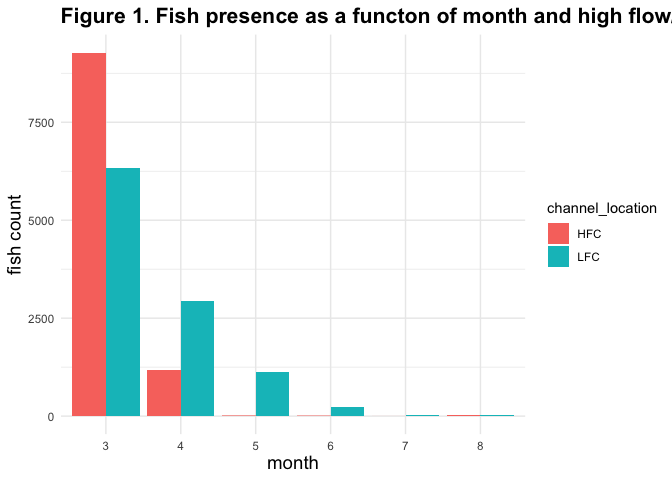
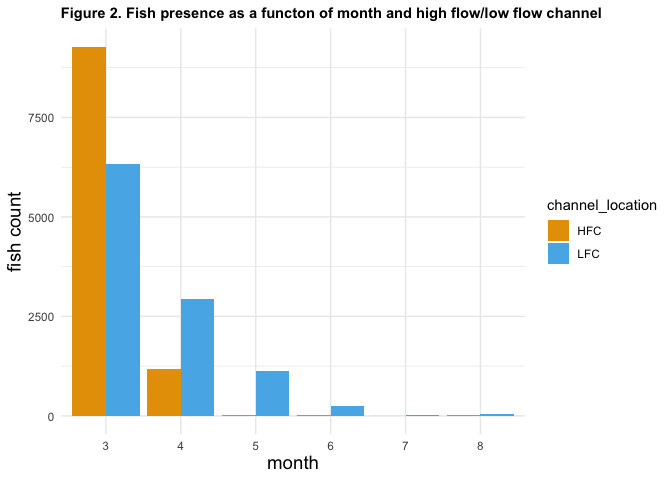
adding text and sections, making plots prettier

diff --git a/feather_river_hsi_hurdle_model.md b/feather_river_hsi_hurdle_model.md
@@ -1,21 +1,89 @@
-Mini Snorkel Feather HSC Using Hurdle Model
+Mini Snorkel Feather Presence/Absence Model
 ================
 Maddee Rubenson
-2024-07-02
+2024-07-03
 
 - [Objective](#objective)
-- [Data Exploration](#data-exploration)
-  - [Outliers](#outliers)
-- [Hurdle Models and Interpretation](#hurdle-models-and-interpretation)
-  - [Binary Cover Values](#binary-cover-values)
-    - [Results](#results)
-  - [Using Absolute Values](#using-absolute-values)
-    - [Results](#results-1)
+- [Methodology](#methodology)
+  - [Hurdle Models and
+    Interpretation](#hurdle-models-and-interpretation)
+- [Build Models](#build-models)
+  - [Read in data](#read-in-data)
+  - [Review Data](#review-data)
+  - [High Flow vs. Low Flow Channel](#high-flow-vs-low-flow-channel)
+- [Model 1 - Binary Cover Values](#model-1---binary-cover-values)
+  - [Model 1 Results](#model-1-results)
+- [Model 2 - Using Absolute Values](#model-2---using-absolute-values)
+  - [Model 2 Results](#model-2-results)
+- [Discussion](#discussion)
+  - [Interpretation of Model 1](#interpretation-of-model-1)
+  - [Interpretation of Model 2](#interpretation-of-model-2)
+  - [Suggestions](#suggestions)
+  - [Limitations](#limitations)
 
 ## Objective
 
-Using the mini snorkel data for the Feather River, produce an HSC that
-uses cover, substrate, depth and velocity.
+Develop a model that reflects the significance of cover, substrate,
+depth, and velocity on fish presence and absence.
+
+## Methodology
+
+Model was developed using [Feather River Mini Snorkel
+Data](https://github.com/FlowWest/feather-mini-snorkel). The data is
+structured with a numeric fish count variable that can be converted to a
+binary presence/absence. Logistic regression models were tested using
+the presence/absence as the response and cover, substrate, depth and
+velocity as the explanatory variables. However, due to the skewness of
+absence values, none of the developed models were well fit to the data.
+Based on a Gard 2024 paper (in-review), we decided to explore the use of
+hurdle models. Hurdle models excel with data types that are heavily
+skewed towards absence.
+
+### Hurdle Models and Interpretation
+
+A hurdle model was used in Gard 2024 (in-review) to test for the effects
+of cover and habitat type on the total abundance of Chinook salmon at
+both site and cell level. Here we use the hurdle model to help
+understand the influence of velocity, depth, and cover on fish count and
+presence/absence.
+
+**Hurdle Models**
+
+Hurdle models are used when count data has an excess of zeros. These
+models can be understood as a mixture of two subset of populations. In
+one subset, we have a usual count model that may or may not generate
+zero, and the other subset only produce zero count.
+
+A hurdle model models excess zeroes separately from the rest of the
+data. The zero counts are modeled as a binary response variable and the
+positive counts are modeled using poisson distribution.
+
+*Interpreting a Hurdle Model*
+
+The binary part of the model helps identify factors that influence the
+presence/absence of fish. The coefficients of the zero part of the
+hurdle model represent the odds ratio of observing at least one fish.
+
+The count part of the model estimate the effects of predictor variables
+on the count outcome, excluding all zero counts. Coefficients of counts
+represent rate ratios of one or more fish observed.
+
+The Incidence Result Ratio (IRR) in the count part of the model (count
+\> 0) represent the multiplicative effect of a one-unit change in a
+predictor variable on the expected count of non-zero observations,
+assuming all other variables are held constant. For example, if the IRR
+for a predictor is 1.2, it means that a one-unit increase in that
+predictor is associated with a 20% increase in the expected count of
+non-zero observations, assuming all other variables remain constant. For
+the binary part of the model - if the coefficient for a predictor in the
+binary part of the hurdle model is 0.5, it means that a one-unit
+increase in the predictor is associated with a 50% increase in the odds
+of having a zero count versus a positive count, assuming all other
+variables are held constant.
+
+## Build Models
+
+### Read in data
 
     ## Rows: 5,029
     ## Columns: 43
@@ -63,14 +131,23 @@ uses cover, substrate, depth and velocity.
     ## $ longitude                                   <dbl> -121.5588, -121.5588, -121…
     ## $ fish_presence                               <fct> 1, 1, 1, 0, 0, 0, 1, 0, 0,…
 
-## Data Exploration
+### Review Data
 
-### Outliers
+#### Outliers
 
-- There are two outliers, one in the high flow and one in the low flow
-  channel
+There are two `count` outliers, one in the high flow and one in the low
+flow channel (figure 1), however their removal did not impact the model
+results so they were kept in the dataset.
 
-![](feather_river_hsi_hurdle_model_files/figure-gfm/unnamed-chunk-2-1.png)<!-- -->![](feather_river_hsi_hurdle_model_files/figure-gfm/unnamed-chunk-2-2.png)<!-- -->
+![](feather_river_hsi_hurdle_model_files/figure-gfm/unnamed-chunk-2-1.png)<!-- -->
+
+### High Flow vs. Low Flow Channel
+
+Table 1 and figure 2 explore whether fish presence was impacted by the
+high or low flow channels. Overall, the cumulative number of fish are
+similar across the high and low flow channels (table 1) however there
+are more fish present in the high flow channel for less time and the
+fish remain in the low flow channel for much longer (figure 2).
 
 | channel_location |     n |
 |:-----------------|------:|
@@ -81,52 +158,14 @@ Table 1. Total count of fish between high flow and low flow channels
 
 ![](feather_river_hsi_hurdle_model_files/figure-gfm/unnamed-chunk-3-1.png)<!-- -->
 
-# Hurdle Models and Interpretation
+## Model 1 - Binary Cover Values
 
-A hurdle model was used in Gard 2024 to test for the effects of cover
-and habitat type on the total abundance of Chinook salmon at both site
-and cell level. Here we use the hurdle model to help understand the
-influence of velocity, depth, and cover on fish count and
-presence/absence.
+**Notes**
 
-**Hurdle Models**
+For this hurdle model, all substrate and cover variables
+presence/absence based on a 20% threshold
 
-Hurdle models are used when count data has an excess of zeros. These
-models can be understood as a mixture of two subset of populations. In
-one subset, we have a usual count model that may or may not generate
-zero, and the other subset only produce zero count.
-
-A hurdle model models excess zeroes separately from the rest of the
-data. The zero counts are modeled as a binary response variable and the
-positive counts are modeled using poisson distribution.
-
-*Interpreting a Hurdle Model*
-
-The binary part of the model helps identify factors that influence the
-presence/absence of fish. The coefficients of the zero part of the
-hurdle model represent the odds ratio of observing at least one fish.
-
-The count part of the model estimate the effects of predictor variables
-on the count outcome, excluding all zero counts. Coefficients of counts
-represent rate ratios of one or more fish observed.
-
-The Incidence Result Ratio (IRR) in the count part of the model (count
-\> 0) represent the multiplicative effect of a one-unit change in a
-predictor variable on the expected count of non-zero observations,
-assuming all other variables are held constant. For example, if the IRR
-for a predictor is 1.2, it means that a one-unit increase in that
-predictor is associated with a 20% increase in the expected count of
-non-zero observations, assuming all other variables remain constant. For
-the binary part of the model - if the coefficient for a predictor in the
-binary part of the hurdle model is 0.5, it means that a one-unit
-increase in the predictor is associated with a 50% increase in the odds
-of having a zero count versus a positive count, assuming all other
-variables are held constant.
-
-## Binary Cover Values
-
-**Notes** For this hurdle model, chose to make all substrate and cover
-variables presence/absence based on a 20% threshold
+TODO: add no_cover into variables
 
 **Predictors**
 
@@ -206,6 +245,8 @@ variables presence/absence based on a 20% threshold
     ## - cover_more_than_half_meter_overhead  2 5342.5
     ## - channel_location                     2 5421.7
 
+### Model 1 Results
+
     ## 
     ## Call:
     ## pscl::hurdle(formula = count ~ small_woody_cover_inchannel + depth + 
@@ -263,13 +304,14 @@ variables presence/absence based on a 20% threshold
     ## Number of iterations in BFGS optimization: 32 
     ## Log-likelihood: -2632 on 23 Df
 
-### Results
+    ## Scale for colour is already present.
+    ## Adding another scale for colour, which will replace the existing scale.
 
 ![](feather_river_hsi_hurdle_model_files/figure-gfm/unnamed-chunk-5-1.png)<!-- -->
 
-## Using Absolute Values
+## Model 2 - Using Absolute Values
 
-This hurdle model uses substrate and cover percent values.
+This hurdle model uses substrate and cover absolute percent values.
 
 **Predictors**
 
@@ -394,6 +436,8 @@ This hurdle model uses substrate and cover percent values.
     ## - percent_small_woody_cover_inchannel          2 5035.7
     ## - channel_location                             2 5105.8
 
+### Model 2 Results
+
     ## 
     ## Call:
     ## pscl::hurdle(formula = count ~ percent_small_woody_cover_inchannel + 
@@ -456,9 +500,17 @@ This hurdle model uses substrate and cover percent values.
     ## Number of iterations in BFGS optimization: 45 
     ## Log-likelihood: -2479 on 19 Df
 
-### Results
-
 ![](feather_river_hsi_hurdle_model_files/figure-gfm/unnamed-chunk-7-1.png)<!-- -->
+
+## Discussion
+
+### Interpretation of Model 1
+
+### Interpretation of Model 2
+
+### Suggestions
+
+### Limitations
 
 ``` r
 knitr::knit_exit()
